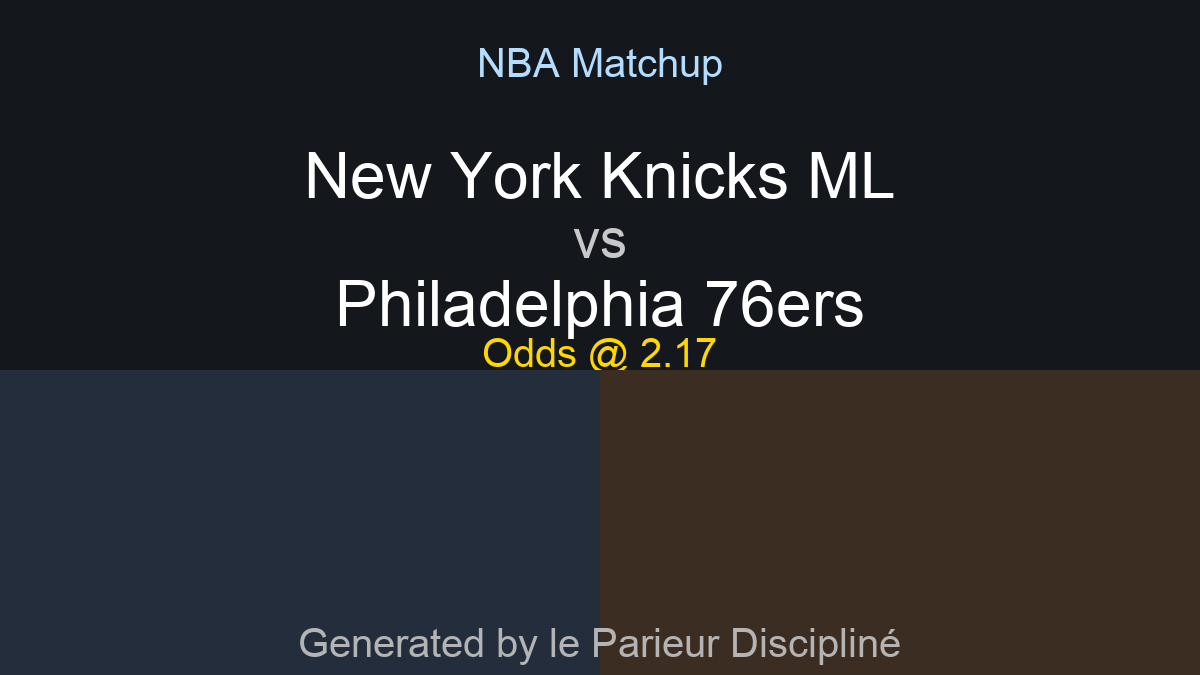
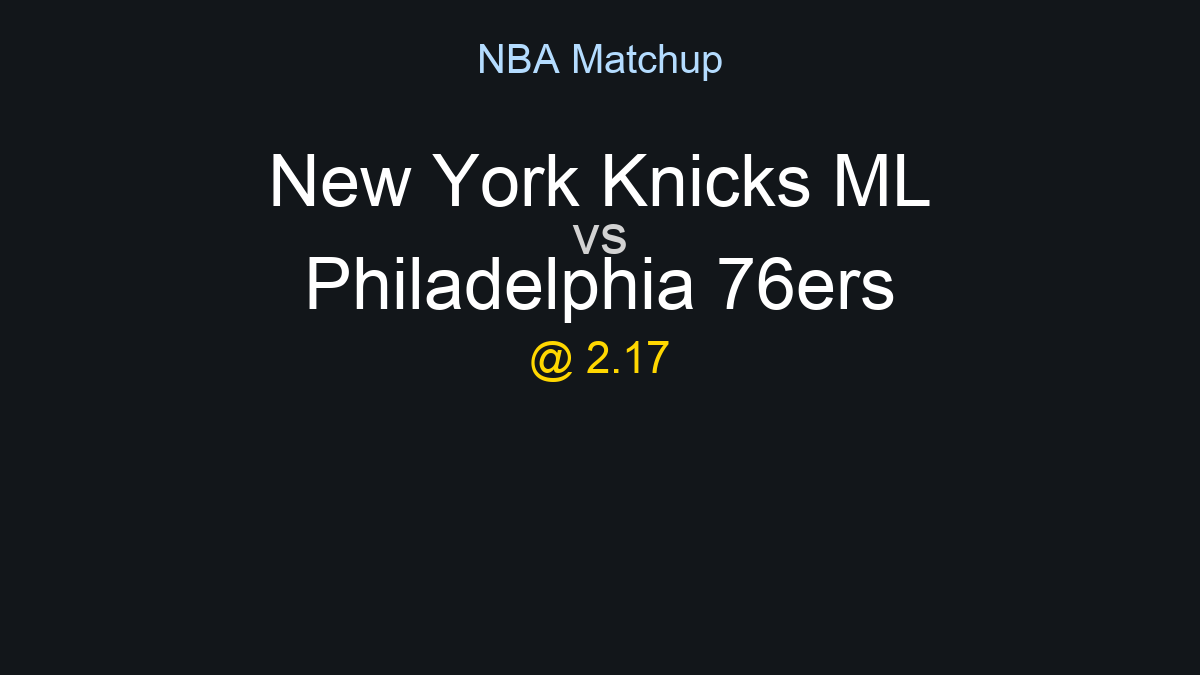
Fixed image generation

diff --git a/generate_prediction_image.py b/generate_prediction_image.py
@@ -20,15 +20,28 @@ os.makedirs(OUTPUT_DIR, exist_ok=True)
 
 load_dotenv()
 
-# New: explicit regex for "Bet of the Day" block
+# New: explicit regex for "Bet of the Day" in multiple formats
+# Supported formats:
+# 1) Single line: "**Bet of the Day:** New York Knicks ML vs Philadelphia 76ers @ 2.17"
+# 2) Header + line (old format):
+#    "### Bet of the Day\n\n**New York Knicks ML vs Philadelphia 76ers @ 2.17**\nReason: ..."
 BET_OF_DAY_REGEX = re.compile(
     r"""
-    ^\s*\#{0,6}\s*Bet\s+of\s+the\s+Day\s*$      # header line
-    (?:\s*\n)+                                  # one or more newlines
-    \s*\**\s*                                   # optional bold start (**)
-    (?P<betline>.+?)                            # full bet line (e.g., "Team ML vs Opponent")
-    \s*@\s*(?P<odds>[\d\.]+)\s*                 # odds after '@'
-    \**\s*$                                     # optional bold end
+    # Either a single-line label with the bet inline
+    \s*\**\s*Bet\s+of\s+the\s+Day\s*\**\s*:?\s*       # "Bet of the Day" label (bold optional), optional colon
+    (?:                                                     
+        \s*\**\s*                                         # optional bold start
+        (?P<betline_inline>[^\n@]+?)                       # capture betline up to '@' (e.g., "New York Knicks ML vs Philadelphia 76ers")
+        \s*@\s*(?P<odds_inline>[\d\.]+)\s*               # odds after '@'
+        \**                                                # optional bold end
+        |                                                  
+        # Or block style where the header appears alone and betline is on a following line
+        (?:\s*\n)+                                        # one or more newlines
+        \s*\**\s*                                         # optional bold start
+        (?P<betline_block>.+?)                              # full bet line (e.g., "Team ML vs Opponent")
+        \s*@\s*(?P<odds_block>[\d\.]+)\s*               # odds after '@'
+        \**\s*$                                            # optional bold end and EOL
+    )
     """,
     re.IGNORECASE | re.VERBOSE | re.MULTILINE,
 )
@@ -38,8 +51,8 @@ FIRST_PLAY_REGEX = re.compile(
     \**\s*                                   # optional bold start
     (?P<teams>.+?(?:\s+vs\s+|\s+@\s+).+?)    # "Team A vs Team B" or "Team A @ Team B"
     \s*:\s*                                  # colon separator
-    (?P<bet>.+?)                              # bet description
-    (?:                                       # odds as @ price OR (Odds: price)
+    (?P<bet>.+?)                               # bet description
+    (?:                                        # odds as @ price OR (Odds: price)
         \s*@\s*(?P<price1>[\d\.]+)           # "@ 1.95"
         |
         \s*\(\s*Odds:\s*(?P<price2>[\d\.]+)\s*\)  # "(Odds: 1.95)"
@@ -85,11 +98,12 @@ def extract_first_play(predictions_text: str) -> dict | None:
     """Extract the highest-confidence play to render an image.
     Priority: "Bet of the Day: <betline> @ <odds>" if present; otherwise fallback to the first bold play line.
     """
-    # 1) Look for explicit Bet of the Day block
+    # 1) Look for explicit Bet of the Day block (supports single-line and header+line styles)
     bod_match = BET_OF_DAY_REGEX.search(predictions_text)
     if bod_match:
-        betline = bod_match.group("betline").strip()
-        odds = bod_match.group("odds").strip()
+        # Prefer inline capture; else block capture
+        betline = (bod_match.group("betline_inline") or bod_match.group("betline_block") or "").strip()
+        odds = (bod_match.group("odds_inline") or bod_match.group("odds_block") or "").strip()
         home, away, bet_desc = _split_teams_from_betline(betline)
         return {
             "home": home,
@@ -98,8 +112,6 @@ def extract_first_play(predictions_text: str) -> dict | None:
             "odds": odds,
             "game": f"{home} vs {away}" if home and away else betline,
         }
-
-    print(bod_match)
 
     # 2) Fallback: first bold play line in the AI Analysis Summary
     match = FIRST_PLAY_REGEX.search(predictions_text)
@@ -178,6 +190,7 @@ def generate_image_with_gemini(play: dict, api_key: str) -> bytes | None:
                 contents=types.Part.from_text(text=prompt),
                 # Some image generation endpoints return binary; google-genai returns parts
             )
+            print("[debug] Response type:", type(response))
         except Exception as e:
             print("[error] Gemini generation failed:", str(e))
             return None
@@ -189,59 +202,91 @@ def generate_image_with_gemini(play: dict, api_key: str) -> bytes | None:
                 if getattr(p, "inline_data", None) and getattr(p.inline_data, "mime_type", "").startswith("image/"):
                     return p.inline_data.data
         return None
-    except Exception:
+    except Exception as e:
+        print("[error] Unexpected in generate_image_with_gemini:", str(e))
         return None
 
 
 def generate_image_with_pillow(play: dict, out_path: str):
-    # Simple 1200x675 banner image with team names and bet text
+    """
+    Renders a clean centered NBA matchup image:
+        - Header: "NBA Matchup"
+        - Lines: Home, "vs", Away
+        - Bet line: "<Bet> @ <Odds>"
+        - Dark background, all text centered.
+    """
+    # Canvas
     width, height = 1200, 675
-    img = Image.new("RGB", (width, height), color=(20, 24, 28))
+    img = Image.new("RGB", (width, height), color=(18, 22, 26))  # dark background
     draw = ImageDraw.Draw(img)
 
-    # Try to load a system font; fallback to default
+    # Fonts: try system fonts first, fallback to default
     try:
-        font_title = ImageFont.truetype("Arial.ttf", 64)
-        font_vs = ImageFont.truetype("Arial.ttf", 54)
-        font_sub = ImageFont.truetype("Arial.ttf", 40)
+        font_header = ImageFont.truetype("Arial.ttf", 40)
+        font_team = ImageFont.truetype("Arial.ttf", 72)
+        font_vs = ImageFont.truetype("Arial.ttf", 56)
+        font_bet = ImageFont.truetype("Arial.ttf", 44)
     except Exception:
-        font_title = ImageFont.load_default()
+        font_header = ImageFont.load_default()
+        font_team = ImageFont.load_default()
         font_vs = ImageFont.load_default()
-        font_sub = ImageFont.load_default()
+        font_bet = ImageFont.load_default()
 
-    bet_line = f"Odds @ {play['odds']}"
-    footer = "Generated by le Parieur Discipliné"
+    # Colors
+    color_header = (180, 220, 255)
+    color_team = (255, 255, 255)
+    color_vs = (210, 210, 210)
+    color_bet = (255, 215, 0)
 
-    # Centered text helper
-    def center_text(text, y, font, fill=(240, 240, 240)):
-        w, h = draw.textbbox((0, 0), text, font=font)[2:]
+    # Text helpers
+    def text_size(text: str, font: ImageFont.FreeTypeFont) -> tuple[int, int]:
+        bbox = draw.textbbox((0, 0), text, font=font)
+        return bbox[2] - bbox[0], bbox[3] - bbox[1]
+
+    def center_text(text: str, y: int, font: ImageFont.FreeTypeFont, fill=(255, 255, 255)) -> int:
+        w, h = text_size(text, font)
         x = (width - w) // 2
         draw.text((x, y), text, font=font, fill=fill)
         return h
 
     # Header
-    center_text("NBA Matchup", 40, font_sub, (180, 220, 255))
+    header_y = 36
+    center_text("NBA Matchup", header_y, font_header, color_header)
 
-    # Three-line title: Home \n vs \n Away
-    home_h = draw.textbbox((0, 0), play['home'], font=font_title)[3]
-    vs_h = draw.textbbox((0, 0), "vs", font=font_vs)[3]
-    away_h = draw.textbbox((0, 0), play['away'], font=font_title)[3]
+    # Teams: three lines centered vertically
+    home = play.get("home", "Home").strip()
+    away = play.get("away", "Away").strip()
 
-    base_y = 140  # top of the block
-    center_text(play['home'], base_y, font_title, (255, 255, 255))
-    center_text("vs", base_y + home_h + 10, font_vs, (200, 200, 200))
-    center_text(play['away'], base_y + home_h + 10 + vs_h + 10, font_title, (255, 255, 255))
+    # Measure heights to compute spacing
+    home_w, home_h = text_size(home, font_team)
+    vs_w, vs_h = text_size("vs", font_vs)
+    away_w, away_h = text_size(away, font_team)
 
-    # Bet line below the title block
-    center_text(bet_line, 330, font_sub, (255, 215, 0))
+    # Top of the block so that the trio is vertically well placed
+    block_top = 140
+    gap_small = 10
 
-    # Simple halves background accent
-    draw.rectangle([0, 370, width//2, height], fill=(35, 45, 60))
-    draw.rectangle([width//2, 370, width, height], fill=(60, 45, 35))
+    # Draw Home
+    cur_y = block_top
+    center_text(home, cur_y, font_team, color_team)
+    cur_y += home_h + gap_small
 
-    # Footer
-    center_text(footer, 620, font_sub, (180, 180, 180))
+    # Draw VS
+    center_text("vs", cur_y, font_vs, color_vs)
+    cur_y += vs_h + gap_small
 
+    # Draw Away
+    center_text(away, cur_y, font_team, color_team)
+    cur_y += away_h
+
+    # Bet line: "<Bet> @ <Odds>"
+    odds = str(play.get("odds", "")).strip()
+    bet_line = f"@ {odds}"
+
+    bet_y = cur_y + 24  # below the teams block
+    center_text(bet_line, bet_y, font_bet, color_bet)
+
+    # Save image
     img.save(out_path, format="PNG")
 
 

diff --git a/nba_predictions_daily_run.py b/nba_predictions_daily_run.py
@@ -43,7 +43,7 @@ def analyze_results(results_text):
         "After listing plays, choose the single highest-confidence pick that fits the <= 2.2 odds constraint and mark it clearly as: \n"
         "\n"
         "Bet of the Day: <TEAM or MARKET> @ <ODDS>\n"
-        "One-sentence reason in plain language.\n"
+        "Provide a reason in plain language focusing on form, matchup, and injuries; do not mention bookmakers, odds, price/line variance, EV, or market data.\n"
         "\n"
         "### DATA TO ANALYZE\n"
         f"{results_text}"
